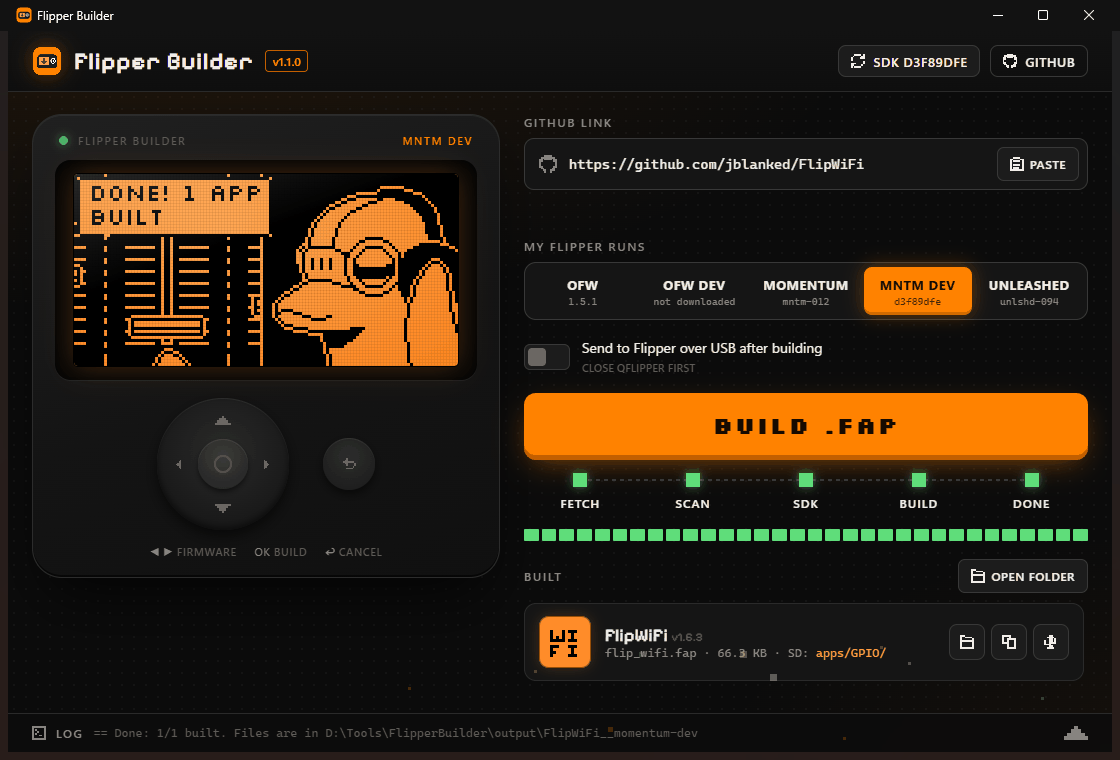
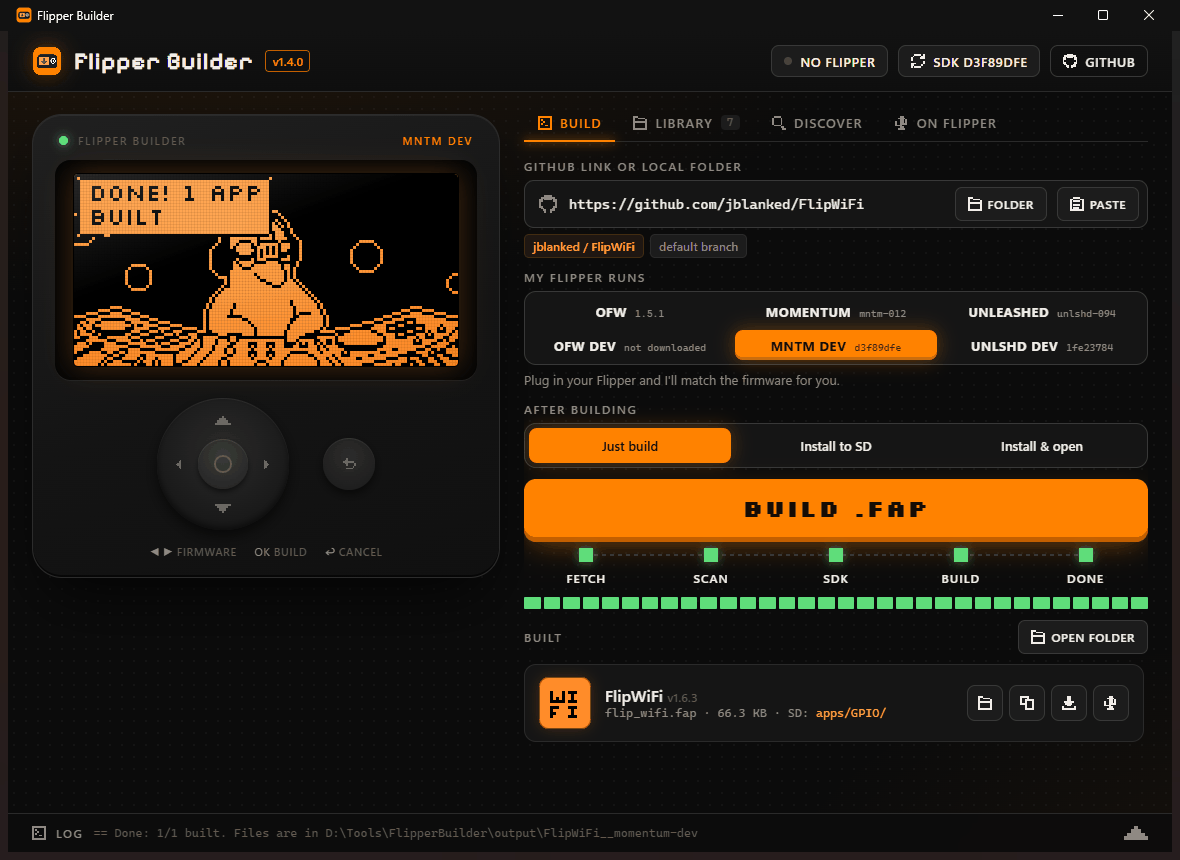
README refresh, CHANGELOG, social preview image
New 1.4.0 screenshots (mid-build hero plus a 2x2 grid: done, On Flipper, Library, Discover), features grouped into Build / Your Flipper / Library & Discover, quick start, release/platform/license badges. Adds CHANGELOG.md for 1.0 to 1.4 and assets/social-preview.png (tools/make_social.py) for the repo's link previews.

diff --git a/tools/make_social.py b/tools/make_social.py
@@ -1,0 +1,82 @@
+"""Draws assets/social-preview.png (1280x640), the image GitHub shows when the repo link is shared."""
+from pathlib import Path
+from PIL import Image, ImageDraw, ImageFilter, ImageFont
+
+ROOT = Path(__file__).resolve().parent.parent
+W, H = 1280, 640
+BG, ORANGE, LCD, LCD_HI, TEXT, MUTED = (11, 11, 11), (255, 130, 0), (255, 140, 41), (255, 166, 79), (241, 237, 232), (150, 143, 136)
+
+img = Image.new("RGB", (W, H), BG)
+
+# soft orange glow, top-left and behind the screen
+glow = Image.new("RGB", (W, H), BG)
+gd = ImageDraw.Draw(glow)
+gd.ellipse((-260, -320, 520, 300), fill=(70, 34, 0))
+gd.ellipse((640, 40, 1360, 640), fill=(55, 27, 0))
+img = Image.blend(img, glow.filter(ImageFilter.GaussianBlur(140)), 1.0)
+d = ImageDraw.Draw(img)
+for y in range(0, H, 16):             # faint dot grid, like the app background
+    for x in range(0, W, 16):
+        d.point((x, y), fill=(26, 26, 26))
+
+# ---- the device: bezel + orange LCD with the soldering dolphin, 4x
+SCALE = 4
+lcd_w, lcd_h = 128 * SCALE, 64 * SCALE
+dx, dy = W - lcd_w - 96, 150
+d.rounded_rectangle((dx - 44, dy - 66, dx + lcd_w + 44, dy + lcd_h + 150), radius=44, fill=(26, 26, 26), outline=(48, 48, 48), width=2)
+d.rounded_rectangle((dx - 20, dy - 20, dx + lcd_w + 20, dy + lcd_h + 20), radius=22, fill=(5, 5, 5))
+lcd = Image.new("RGB", (lcd_w, lcd_h), LCD)
+ld = ImageDraw.Draw(lcd)
+for i in range(lcd_h):                # gentle backlight gradient
+    t = i / lcd_h
+    ld.line((0, i, lcd_w, i), fill=tuple(int(LCD_HI[k] * (1 - t) + LCD[k] * t) for k in range(3)))
+sheet = Image.open(ROOT / "ui" / "vendor" / "dolphin" / "soldering.png").convert("RGBA")
+frame = sheet.crop((0, 0, 128, 64)).resize((lcd_w, lcd_h), Image.NEAREST)
+lcd.paste(frame, (0, 0), frame)
+# speech bubble, pixel style
+bub = Image.new("RGBA", (128, 64), (0, 0, 0, 0))
+font8 = ImageFont.truetype(str(ROOT / "ui" / "vendor" / "fonts" / "Silkscreen-Regular.ttf"), 8)
+bd = ImageDraw.Draw(bub)
+text = "BUILDING..."
+tw = int(bd.textlength(text, font=font8))
+bx, by, bw, bh = 128 - tw - 10, 1, tw + 7, 12
+bd.rectangle((bx, by, bx + bw, by + bh), fill=LCD + (255,), outline=(0, 0, 0, 255))
+bd.text((bx + 4, by + 2), text, font=font8, fill=(0, 0, 0, 255))
+bub = bub.resize((lcd_w, lcd_h), Image.NEAREST)
+lcd.paste(bub, (0, 0), bub)
+img.paste(lcd, (dx, dy))
+d = ImageDraw.Draw(img)
+# LED + d-pad hints under the screen
+d.ellipse((dx - 22, dy - 48, dx - 10, dy - 36), fill=ORANGE)
+cx, cy = dx + lcd_w // 2 - 60, dy + lcd_h + 88
+d.ellipse((cx - 46, cy - 46, cx + 46, cy + 46), fill=(36, 36, 36), outline=(52, 52, 52), width=2)
+d.ellipse((cx - 17, cy - 17, cx + 17, cy + 17), fill=(58, 58, 58))
+d.ellipse((cx + 96, cy - 20, cx + 136, cy + 20), fill=(36, 36, 36), outline=(52, 52, 52), width=2)
+
+# ---- text block
+pix = ImageFont.truetype(str(ROOT / "ui" / "vendor" / "fonts" / "PixelifySans.ttf"), 92)
+try:
+    pix.set_variation_by_axes([700])
+except Exception:  # noqa: BLE001
+    pass
+seg = "C:/Windows/Fonts/seguisb.ttf"
+body = ImageFont.truetype(seg, 34)
+small = ImageFont.truetype("C:/Windows/Fonts/segoeuib.ttf", 21)
+icon = Image.open(ROOT / "assets" / "icon.png").convert("RGBA").resize((88, 88), Image.LANCZOS)
+x0 = 84
+img.paste(icon, (x0, 92), icon)
+d.text((x0, 196), "Flipper", font=pix, fill=TEXT)
+d.text((x0, 290), "Builder", font=pix, fill=ORANGE)
+d.text((x0, 410), "GitHub link in, app on your", font=body, fill=MUTED)
+d.text((x0, 452), "Flipper Zero out.", font=body, fill=MUTED)
+# feature chips
+x = x0
+for label in ("OFFICIAL", "MOMENTUM", "UNLEASHED", "USB INSTALL"):
+    w = int(d.textlength(label, font=small)) + 28
+    d.rounded_rectangle((x, 528, x + w, 568), radius=9, fill=(43, 26, 10), outline=(150, 78, 10), width=2)
+    d.text((x + 14, 535), label, font=small, fill=(255, 160, 64))
+    x += w + 12
+
+out = ROOT / "assets" / "social-preview.png"
+img.save(out, optimize=True)
+print("wrote", out, img.size)

diff --git a/README.md b/README.md
@@ -1,63 +1,80 @@
 # Flipper Builder
 
-Paste a GitHub link to a Flipper Zero app, press **Build**, get a `.fap`.
+[![Latest release](https://img.shields.io/github/v/release/c3rb3ruszx/flipper-builder?color=ff8200&label=release)](../../releases/latest)
+[![Platform](https://img.shields.io/badge/platform-Windows%2010%20%7C%2011-ff8200)](../../releases/latest)
+[![License](https://img.shields.io/github/license/c3rb3ruszx/flipper-builder?color=ff8200)](LICENSE)
+
+**Paste a GitHub link to a Flipper Zero app, press Build, and it's on your Flipper.**
 
 ![Flipper Builder compiling an app while the dolphin solders](assets/screenshot.png)
 
 A Windows app around [ufbt](https://github.com/flipperdevices/flipperzero-ufbt), Flipper's official
-micro build tool. No command line, no SDK setup: it fetches the right SDK for your firmware, clones the
-repo, finds the app(s), builds them and hands you the `.fap`. The dolphin keeps you company on a
-Flipper-style LCD the whole time: it reads the repo, solders while it compiles, DJs when it's done
-and cries when the build breaks.
+build tool. No command line and no SDK setup: it gets the right SDK for your firmware, fetches the
+code, builds the app and installs it over USB. The dolphin keeps you company on a Flipper-style LCD
+the whole time: it reads the repo, solders while it compiles, DJs when it's done and cries when the
+build breaks.
+
+**[Download the latest release](../../releases/latest)** · [What's new](CHANGELOG.md)
+
+## Quick start
+
+1. Download `FlipperBuilder-win64.zip`, unzip it anywhere, and run `FlipperBuilder.exe`.
+2. Plug in your Flipper (close qFlipper). The app reads its firmware and picks the matching SDK.
+3. Paste a GitHub link to an app, or pick one on the **Discover** tab, and press **Build**.
 
 ## Features
 
-- **Any GitHub link**: a repo, a branch, a subfolder (`/tree/dev/some_app`), a file (`/blob/...`)
-  or a commit. Branch names with slashes are resolved correctly. Drag and drop a link onto the
-  window, or copy one before opening the app and it's pasted in for you.
-- **Every big firmware**: Official, Momentum and Unleashed, each as release or dev build.
-  Pick the one your Flipper runs, or the app will show "API mismatch".
-- **Live progress**: fetch, scan, SDK, build stages, a compile progress bar, and the full log in a
-  slide-up drawer.
-- **Knows your Flipper**: plug it in over USB and the app reads its firmware (Official, Momentum or
-  Unleashed, release or dev) and API version, picks the matching SDK, and warns you before building
-  something that won't run on it.
-- **Install straight to the Flipper**: after building, *Install to SD* copies the `.fap` into
-  `apps/<Category>/` over USB, or *Install & open* also launches it. Close qFlipper first.
-- **See what's on your Flipper**: the *On Flipper* tab lists every app on the SD card with its real
-  name, version and icon (read from each `.fap`'s own manifest), SD card space, and which apps won't
-  open on your firmware. Open any app on the Flipper, remove it, or update it with a newer build from
-  your Library. App info is cached, so only the first look reads the files.
-- **Library + Rebuild all**: every app you build is remembered, with badges for what runs on your
-  Flipper and what's outdated. After a firmware update, one click rebuilds them all for the new
-  firmware (and installs them, if you like).
-- **Discover**: search the 500+ apps in Flipper's official Apps Catalog and build any of them in one
-  click, from the exact version Flipper reviewed.
+### Build
+
+- **Any GitHub link**: a repo, a branch, a subfolder (`/tree/dev/some_app`), a file or a commit.
+  Drag a link onto the window, or copy one before opening the app and it's pasted in for you.
+- **Every big firmware**: Official, Momentum and Unleashed, each as a release or dev build.
 - **Pick the apps you want**: repos with several apps open a checklist with each app's icon.
-- **Errors in plain English**: a failed build tells you why (a function your firmware doesn't have,
-  a missing library, an outdated app) and offers one-click "try another firmware" buttons.
-- **Local folders + watch mode**: build an app from a folder on your PC, and let it rebuild (and
-  reinstall) automatically every time you save. Handy when you write your own apps.
-- **Results you can use**: each built app shows its own icon, size, and the SD card folder it belongs
-  in, with buttons to open the folder, copy the SD path, install or open it on the Flipper.
-- **Recent builds**, and a header notice when a new version of Flipper Builder is out.
-- **Play with it like a Flipper**: the d-pad works. Left/right switches firmware, OK builds, Back
-  cancels, up/down opens the log. Keyboard: arrows, Enter, Esc, Ctrl+L (link), Ctrl+F (search).
-  Poke the dolphin.
-- SDK refreshes itself once a day; **SDK** button in the header forces it (right after a firmware update).
+- **Live progress**: the dolphin, build stages, a compile progress bar, and the full log in a slide-up drawer.
+- **Errors in plain English**: a failed build says why (a function your firmware doesn't have, a
+  missing library, an outdated app) and offers one-click "try another firmware" buttons.
+- **Local folders + watch mode**: build from a folder on your PC and rebuild (and reinstall)
+  automatically on every save. Handy when you write your own apps.
 
-![Flipper plugged in: firmware detected and matched](assets/screenshot-device.png)
+### Your Flipper
 
-![The apps on a Flipper, with their own icons](assets/screenshot-onflipper.png)
+- **Knows your Flipper**: plug it in and the app reads its firmware and API version, selects the
+  matching SDK, and warns you before building something that won't run on it.
+- **Install straight to it**: *Install to SD* copies the `.fap` into `apps/<Category>/`, or
+  *Install & open* also launches it.
+- **See what's on it**: the *On Flipper* tab lists every app on the SD card with its real name,
+  version and icon, plus SD card space and which apps won't open on your firmware. Open, remove or
+  update any of them.
 
-![Build finished](assets/screenshot-done.png)
+### Library & Discover
+
+- **Library + Rebuild all**: every app you build is remembered, with badges for what runs on your
+  Flipper and what's outdated. After a firmware update, one click rebuilds them all (and installs them).
+- **Discover**: search the 500+ apps in Flipper's official Apps Catalog and build any of them in
+  one click, from the exact version Flipper reviewed.
+
+### Little things
+
+- The d-pad works like a Flipper's: left/right switches firmware, OK builds, Back cancels. Keyboard:
+  arrows, Enter, Esc, Ctrl+L (link), Ctrl+F (search). Poke the dolphin.
+- SDKs refresh themselves once a day; the **SDK** button in the header forces it.
+- A notice in the header when a new version of Flipper Builder is out.
+
+## Screenshots
+
+| | |
+|---|---|
+| ![Build finished, with the app's own icon and its SD card folder](assets/screenshot-done.png) | ![The apps on a Flipper, with their own icons](assets/screenshot-onflipper.png) |
+| **Done**: the dolphin DJs, and the app's card shows where it goes on the SD card | **On Flipper**: everything on the SD card, with real names, icons and versions |
+| ![The library of built apps](assets/screenshot-library.png) | ![Discover: the official Flipper Apps Catalog](assets/screenshot-discover.png) |
+| **Library**: every build, per firmware, with Rebuild all | **Discover**: 500+ apps from Flipper's official catalog |
 
 ## Install
 
-Download `FlipperBuilder-win64.zip` from [Releases](../../releases), unzip anywhere, run
-`FlipperBuilder.exe`. Needs Windows 10/11 with Microsoft Edge WebView2 (built into Windows 11).
+Download `FlipperBuilder-win64.zip` from [Releases](../../releases/latest), unzip anywhere and run
+`FlipperBuilder.exe`. Needs Windows 10 or 11 with Microsoft Edge WebView2 (built into Windows 11).
 The first build downloads Flipper's toolchain (a few hundred MB, once). SDKs and built apps are kept
-next to the exe.
+next to the exe. For USB features, close qFlipper: only one program can use the Flipper's USB port.
 
 ## Run from source
 
@@ -66,7 +83,7 @@ Needs Windows and Python 3.10+. Double-click `Flipper Builder.bat`, or:
 ```
 python -m venv .venv
 .venv\Scripts\pip install ufbt pywebview pyserial
-.venv\Scripts\python flipper_builder.py                                                 # GUI
+.venv\Scripts\python flipper_builder.py                                                    # GUI
 .venv\Scripts\python flipper_builder.py <github-url-or-folder> --fw momentum-dev [--send]  # CLI
 ```
 
@@ -91,8 +108,9 @@ change it) and registers a per-user uninstaller. No admin rights needed.
 The window is a WebView2 page (pywebview) talking to the Python build engine. The exe bundles
 ufbt's SDK downloader; compiling runs inside Flipper's own toolchain (`fbtenv.cmd` + SCons, exactly
 what the `ufbt` command does), which ships its own Python, so the exe doesn't need Python installed.
-USB talks to the Flipper with the SDK's own storage client (`scripts/flipper/storage.py`, the code
-fbt uses); a copy ships as `flipper_storage.py` for before any SDK is downloaded. Discover indexes
+USB uses the SDK's own storage client (`scripts/flipper/storage.py`, the code fbt uses); a copy ships
+as `flipper_storage.py` for before any SDK is downloaded. App names, versions and icons come from
+each `.fap`'s `.fapmeta` manifest (`fapmeta.py`). Discover indexes
 [flipper-application-catalog](https://github.com/flipperdevices/flipper-application-catalog) and
 caches it for a week.
 

diff --git a/CHANGELOG.md b/CHANGELOG.md
@@ -1,0 +1,38 @@
+# Changelog
+
+Downloads for every version are on the [Releases](../../releases) page.
+
+## 1.4.0
+
+- **On Flipper** tab: every app on the Flipper's SD card with its real name, version and icon (read
+  from each `.fap`'s manifest and cached), SD card space, and which apps won't open on the current
+  firmware. Open, remove (with confirmation) or update any app from your Library.
+- The installer waits for a running copy to close before replacing its files.
+- Long links no longer cause a horizontal scrollbar.
+
+## 1.3.0
+
+- Detects your Flipper over USB, reads its firmware and API version, and selects the matching SDK.
+- *Install to SD* and *Install & open* after building.
+- **Library** of every app you've built, with badges and one-click **Rebuild all** after a firmware update.
+- **Discover** tab: search and build the 500+ apps in Flipper's official Apps Catalog.
+- Checklist picker for repos with several apps (no more 25-app limit).
+- Failed builds explain what went wrong in plain English, with "try another firmware" buttons.
+- Build from a local folder, with watch mode that rebuilds on every save.
+- Notice in the header when a new version is out.
+
+## 1.2.0
+
+- Unleashed dev firmware.
+- The firmware picker is a 3x2 grid: each firmware's release on top, its dev build below.
+
+## 1.1.0
+
+- New look: a Flipper-style device whose LCD plays the firmware's own dolphin animations for every
+  build stage, with a working d-pad, stage tracker, progress bar and slide-up log.
+- Result cards with each app's icon and SD card folder, recent builds, cancel, and drag-and-drop links.
+- Momentum dev firmware.
+
+## 1.0.0
+
+- First release: paste a GitHub link, pick Official, Momentum or Unleashed, get a `.fap`.
